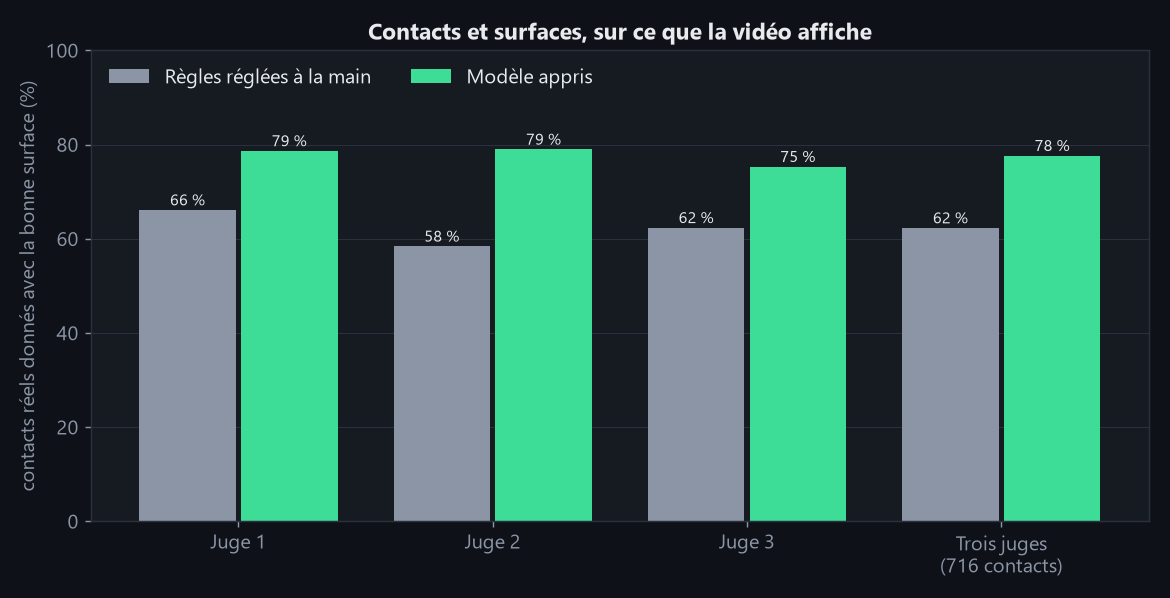
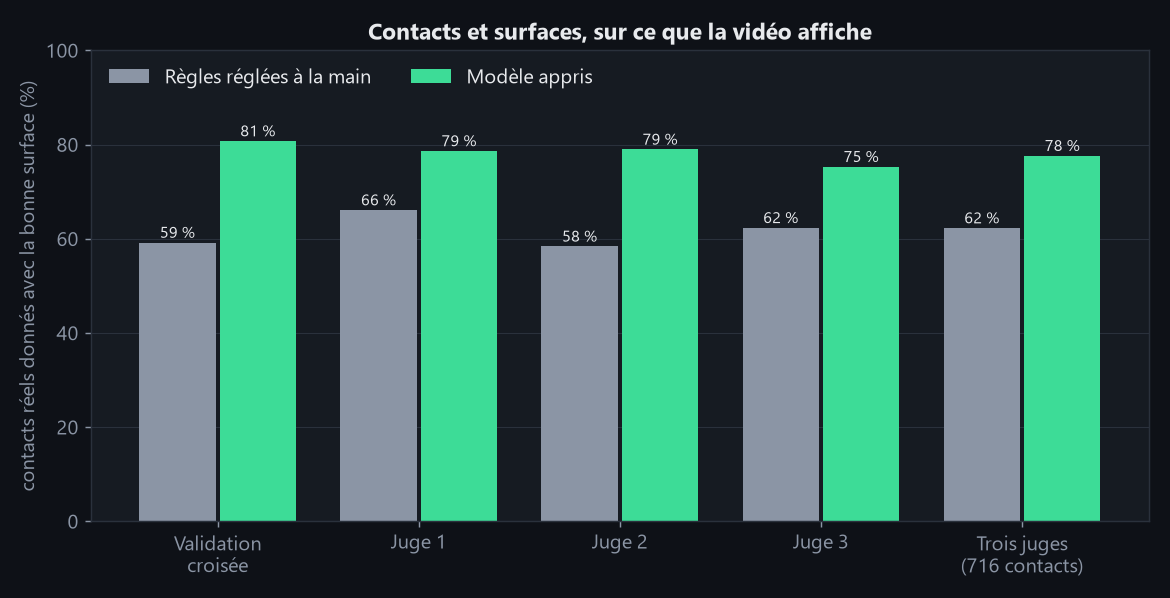
docs: where the model still errs, and the rally statistics page

diff --git a/src/padel_analysis/render/figures.py b/src/padel_analysis/render/figures.py
@@ -77,7 +77,8 @@ def learning_curve_chart(curve: Sequence[dict], path: Path) -> None:
     figure, axis = plt.subplots(figsize=(7, 4))
     axis.plot(sizes, shares, color=style.MODEL, marker="o", linewidth=2.2, zorder=2)
     for size, share in zip(sizes, shares, strict=True):
-        axis.annotate(f"{share:.1f} %", (size, share), textcoords="offset points",
+        axis.annotate(f"{share:.1f} %".replace(".", ","), (size, share),
+                      textcoords="offset points",
                       xytext=(0, 9), ha="center", fontsize=9)
     axis.set_xlabel("minutes de match pointées pour l'entraînement")
     axis.set_ylabel("surface juste (%), validation croisée")

diff --git a/docs/evaluation.md b/docs/evaluation.md
@@ -1062,6 +1062,46 @@ l'écran. Elle reste disponible (`--impact-patch`). Mesuré au passage, la zone 
 l'instant détecté est celle de l'instant réel dans 98 rebonds sur 101 : ce qui bascule,
 c'est la position près d'une ligne, pas l'instant.
 
+#### Où le modèle se trompe encore
+
+Sur les onze minutes d'entraînement, chaque minute prédite par un modèle qui ne l'a pas
+vue, voici pour chaque contact pointé à la main ce que le modèle a répondu — « rien »
+pour un contact manqué, et une ligne « rien » pour les contacts inventés :
+
+![Matrice de confusion des surfaces](figures/confusion.png)
+
+Les frappes sont retrouvées à 92 % (411 sur 445) et le sol à 81 % (219 sur 272). **La
+vitre est le point faible : 64 sur 128 seulement**, 44 manquées et 12 prises pour le
+sol. C'est la confusion que la géométrie annonçait — au-dessus d'environ un mètre, un
+contact sur la vitre proche et un rebond au sol tombent sur le même pixel — et c'est là
+que se trouverait le prochain gain, pas dans davantage de minutes pointées :
+
+![Courbe d'apprentissage](figures/courbe.png)
+
+La courbe, refaite sur onze minutes, monte de 73,2 % à deux minutes d'entraînement à
+81,6 % à huit, puis 81,9 % à dix.
+
+#### Les statistiques d'un échange
+
+`scripts/rally_page.py` construit, pour des échanges choisis à la main dans
+`config/rallies.json`, une page où la vidéo et les statistiques avancent ensemble :
+chronologie des contacts, plan du court avec les impacts et les traces des joueurs,
+frappes par joueur selon ce que la balle touche ensuite, vitesse de la balle,
+déplacements et temps au filet. Chaque panneau porte sa fiabilité, et un mode vérité
+superpose le pointage fait à la main quand l'échange en a un.
+
+Les échanges de la page sont pris dans des minutes de juge, jamais vues par le modèle :
+le mode vérité y montre ses vraies erreurs — 34 contacts justes sur 44 pour l'échange
+féminin, 32 sur 41 pour le masculin — plutôt que le score flatteur d'une minute
+d'entraînement, où il en montrait 33 sur 36.
+
+Trois limites sont écrites dans la page elle-même. Les statistiques héritent des
+erreurs du modèle, une surface sur cinq. La vitesse de la balle est une borne basse,
+en ligne droite entre deux contacts, et une estimation quand un bout est une frappe,
+placée par convention au joueur à un mètre de haut. Les traces des joueurs sont coupées
+là où le suivi saute de plus de deux mètres en un dixième de seconde, plutôt que de
+tracer une course que personne n'a faite.
+
 ## Limites connues
 
 **Un joueur ne peut pas être suivi à travers un changement de côté.** Les quatre

diff --git a/README.md b/README.md
@@ -113,7 +113,9 @@ La courbe d'apprentissage et la confusion entre surfaces sont dans le
 - **Le suivi d'identité se dégrade** sur le match tenu à l'écart, où les joueurs se
   croisent plus souvent de près, et ne traverse pas un changement de côté.
 - **Grillage et filet ne sont pas mesurables** : quelques exemples seulement.
-- **Un contact sur cinq reste faux ou manqué** sur ce que la démonstration affiche.
+- **Un contact sur cinq reste faux ou manqué** sur ce que la démonstration affiche,
+  et la vitre est le point faible : la moitié seulement des contacts sur la vitre
+  sont retrouvés.
 - **Un seul annotateur** pour les vérités terrain produites à la main.
 
 ## Installation
